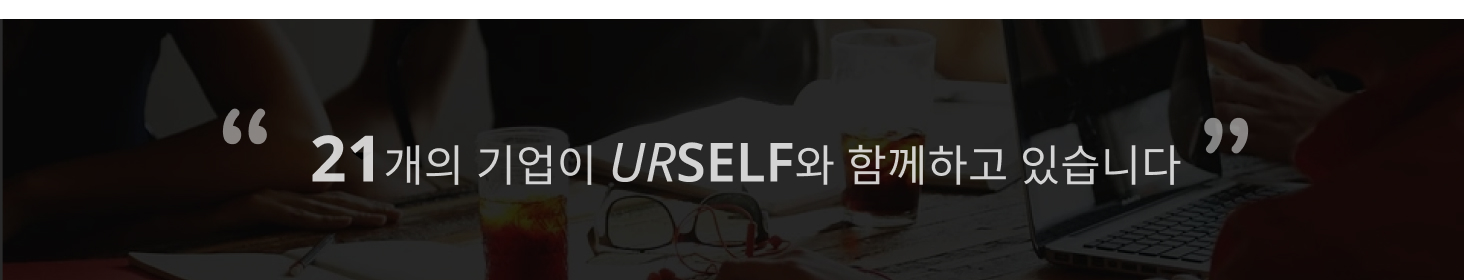
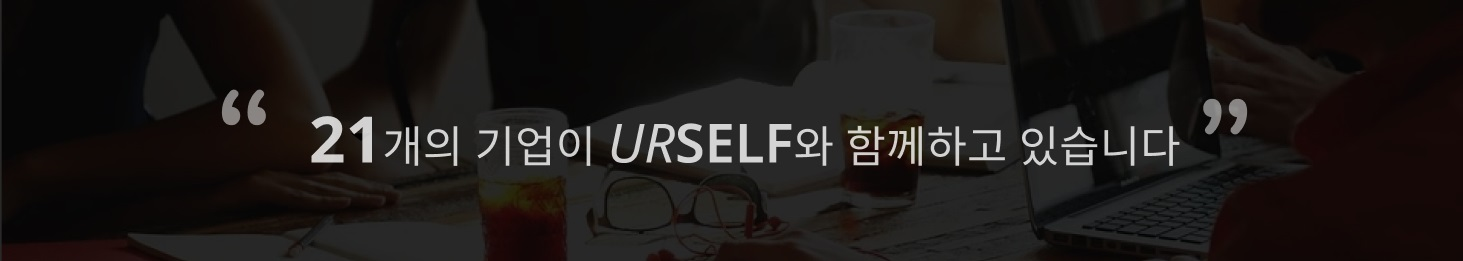
이슬:: 기업 페이지 배너 교체

diff --git a/src/pages/Company.js b/src/pages/Company.js
@@ -42,7 +42,7 @@ function Company() {
   });
   return (
     <>
-      <ImageBanner src="/img/Company__banner.jpg"></ImageBanner>
+      <ImageBanner src="/img/Company_banner.png"></ImageBanner>
       <Container>
         <Title>전체보기</Title>
         <CardContainer>{maplist}</CardContainer>
@@ -61,7 +61,7 @@ const Container = styled.div`
   font-family: 'GmarketSansMedium', sans-serif;
 `;
 const ImageBanner = styled.img`
-  margin-bottom: 4%;
+  margin-bottom: 30px;
 `;
 const Title = styled.div`
   font-family: 'GmarketSansBold', sans-serif;
